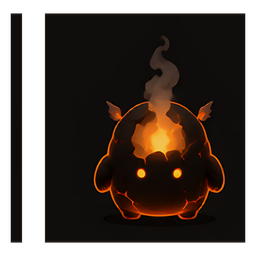
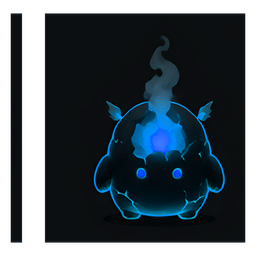
完善怪物透明抠图并恢复幽蓝鬼火

Changed region(s): [[0.3438, 0.125, 0.9062, 0.875]]

diff --git a/game.js b/game.js
@@ -1135,7 +1135,7 @@
     : null;
   const loadCharacterTexture = (file, fallback) => (
     imageTextureLoader
-      ? imageTextureLoader.load(`assets/${file}?v=20261117-original-monsters`)
+      ? imageTextureLoader.load(`assets/${file}?v=20261117-original-monsters2`)
       : fallback
   );
   const TEX = {

diff --git a/index.html b/index.html
@@ -812,7 +812,7 @@
 </div>
 
 <script src="vendor/three.min.js?v=20261117"></script>
-<script src="game.js?v=20261117-original-monsters"></script>
+<script src="game.js?v=20261117-original-monsters2"></script>
 <script src="start.js?v=20261117"></script>
 </body>
 </html>
